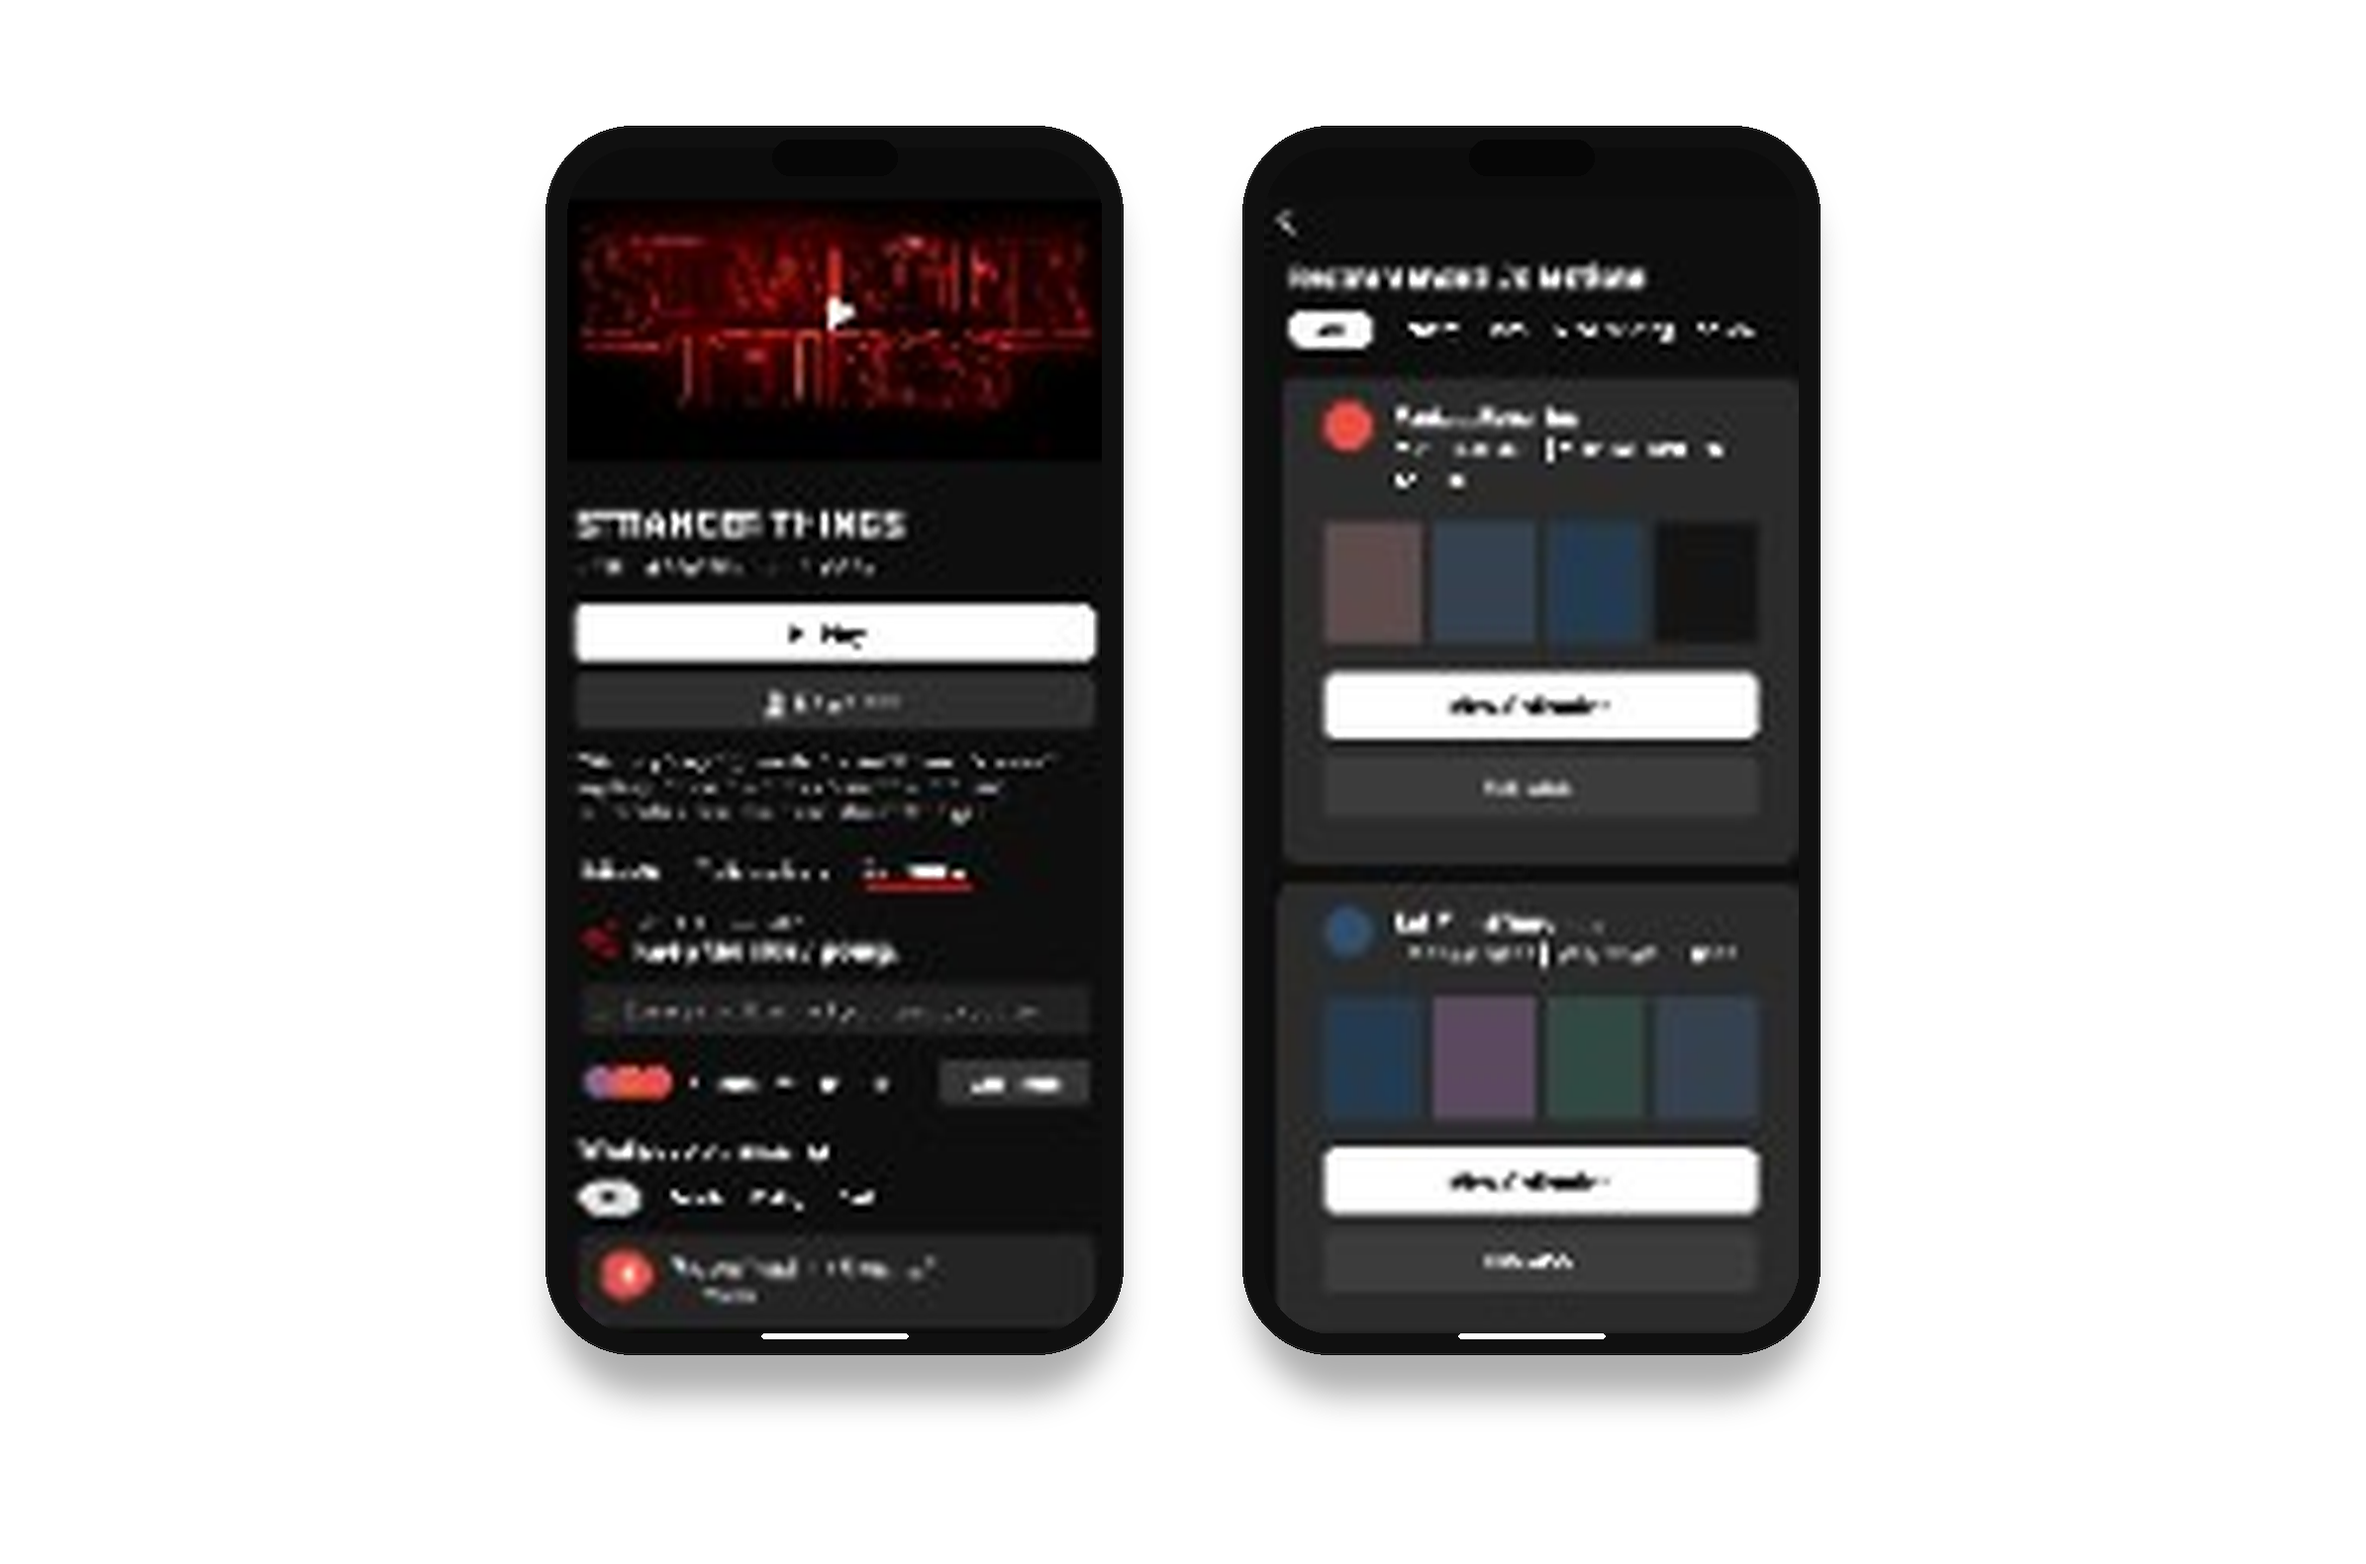
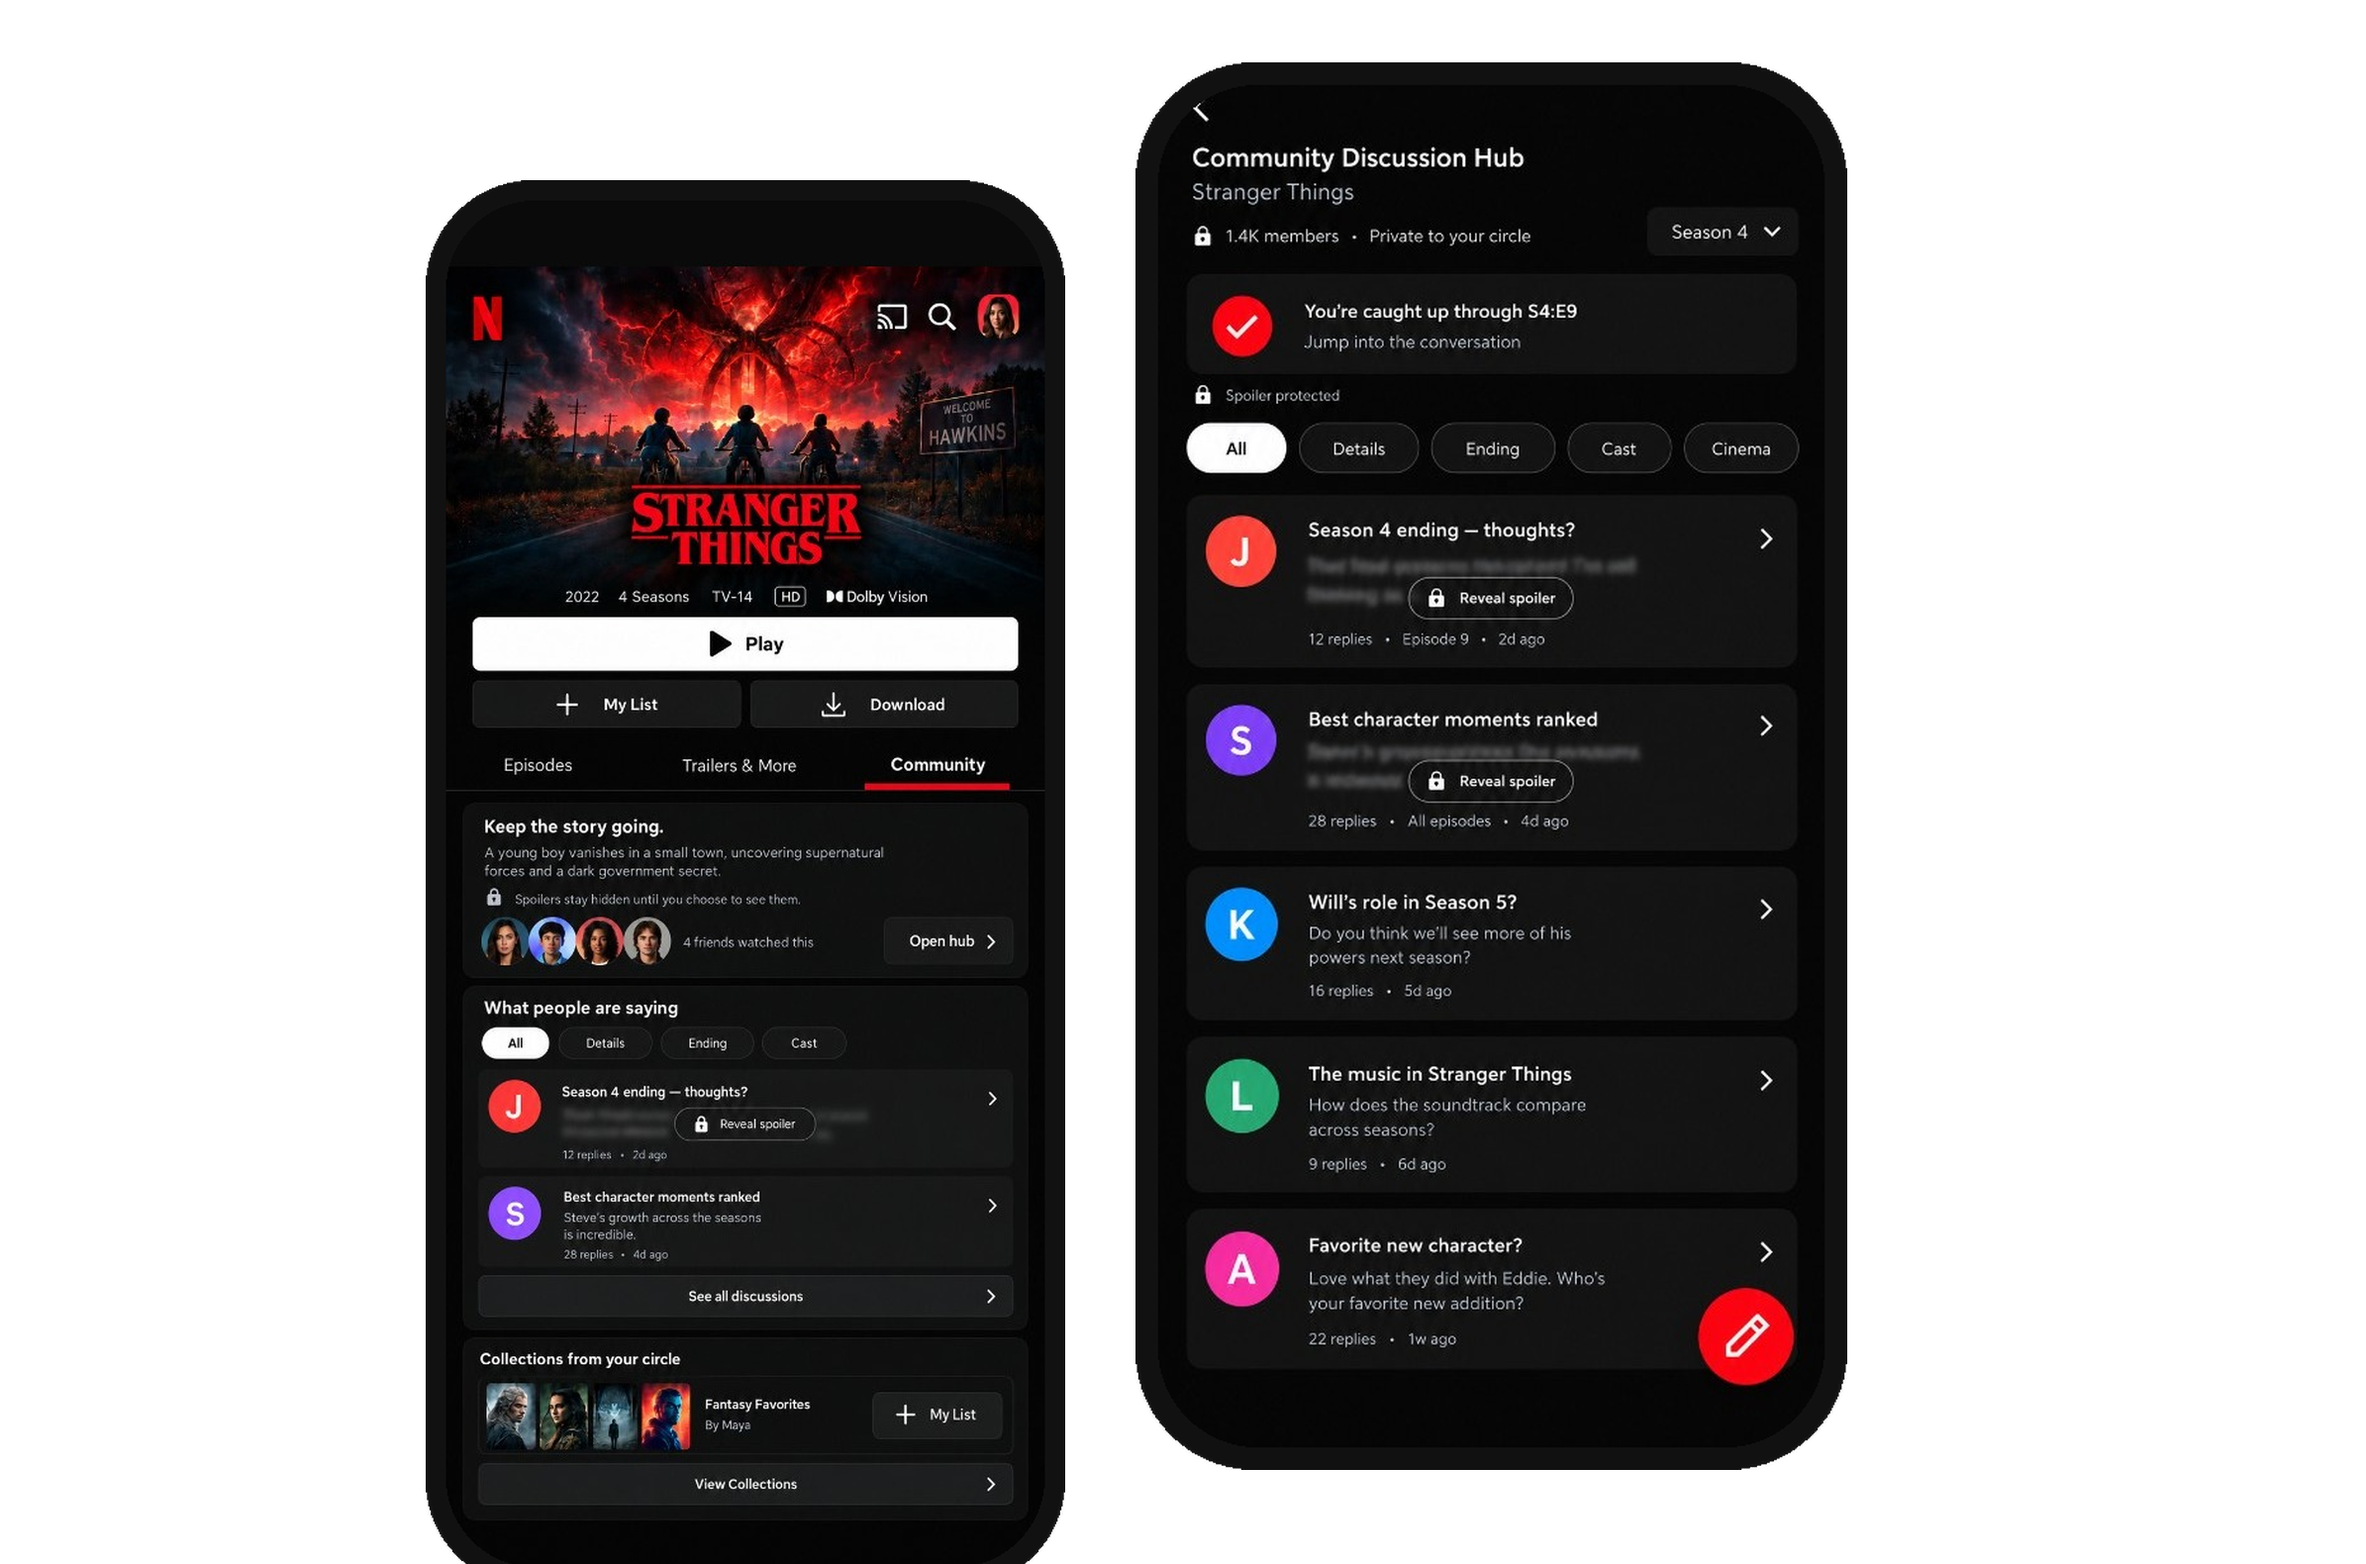
Swap Netflix Community hi-fi to sharper phone screens with more space between frames.

diff --git a/src/components/CaseGallery.tsx b/src/components/CaseGallery.tsx
@@ -29,6 +29,9 @@ function statusBarStyle(item: CaseMediaItem): {
   if (src.includes("path-learning")) {
     return { bg: "#FDFCFA", bottomBg: "#FDFCFA", theme: "light" };
   }
+  if (src.includes("netflix-community")) {
+    return { bg: "#0A0A0A", bottomBg: "#0A0A0A", theme: "dark" };
+  }
   if (src.includes("pulsefit/final/22.png")) {
     return { bg: "#1D1F1F", bottomBg: "#2B3537", theme: "dark" };
   }
@@ -108,17 +111,20 @@ function StatusBar({
 
 function PhoneFrame({
   item,
+  roomy = false,
 }: {
   item: CaseMediaItem;
+  roomy?: boolean;
 }) {
   const { bg, bottomBg, theme } = statusBarStyle(item);
   const dark = theme === "dark";
   // PulseFit exports mix 864 and 1076-tall crops; pin them to one iPhone
   // viewport so shorter screens don't sit above a black gap in the grid.
-  const fillFrame = item.src.includes("pulsefit");
+  const fillFrame =
+    item.src.includes("pulsefit") || item.src.includes("netflix-community");
 
   return (
-    <figure className="mx-auto w-full">
+    <figure className={`mx-auto w-full ${roomy ? "max-w-[220px] sm:max-w-[240px] md:max-w-[260px]" : ""}`}>
       {/* Onur-style device shell — thin dark bezel, soft lift */}
       <div className="rounded-[2.6rem] bg-[#111] p-[10px] shadow-[0_28px_56px_rgba(0,0,0,0.45)] ring-1 ring-white/[0.08] sm:rounded-[2.85rem] sm:p-[11px]">
         <div
@@ -176,10 +182,12 @@ export default function CaseGallery({
   items,
   layout = "masonry",
   tone = "muted",
+  roomy = false,
 }: {
   items: CaseMediaItem[];
   layout?: Layout;
   tone?: "muted" | "dark" | "plain";
+  roomy?: boolean;
 }) {
   if (!items.length) return null;
 
@@ -242,10 +250,22 @@ export default function CaseGallery({
 
   if (layout === "phones") {
     return (
-      <div className={`mt-12 sm:mt-16 ${surface} px-5 py-16 sm:px-8 sm:py-24 md:px-10 md:py-28 lg:px-14`}>
-        <div className="mx-auto grid grid-cols-2 items-start justify-items-stretch gap-x-6 gap-y-14 sm:gap-x-10 sm:gap-y-16 md:grid-cols-3 md:gap-x-12 md:gap-y-20 2xl:grid-cols-4 2xl:gap-x-14 2xl:gap-y-24">
+      <div
+        className={`${surface} ${
+          roomy
+            ? "mt-12 px-8 py-20 sm:mt-16 sm:px-14 sm:py-28 md:px-20 md:py-32 lg:px-28"
+            : "mt-12 px-5 py-16 sm:mt-16 sm:px-8 sm:py-24 md:px-10 md:py-28 lg:px-14"
+        }`}
+      >
+        <div
+          className={`mx-auto grid items-start ${
+            roomy
+              ? "grid-cols-1 justify-items-center gap-x-12 gap-y-16 sm:grid-cols-2 sm:gap-x-16 sm:gap-y-20 md:grid-cols-3 md:gap-x-20 md:gap-y-24"
+              : "grid-cols-2 justify-items-stretch gap-x-6 gap-y-14 sm:gap-x-10 sm:gap-y-16 md:grid-cols-3 md:gap-x-12 md:gap-y-20 2xl:grid-cols-4 2xl:gap-x-14 2xl:gap-y-24"
+          }`}
+        >
           {items.map((item) => (
-            <PhoneFrame key={item.src} item={item} />
+            <PhoneFrame key={item.src} item={item} roomy={roomy} />
           ))}
         </div>
       </div>

diff --git a/src/data/site.ts b/src/data/site.ts
@@ -85,6 +85,8 @@ export type CaseStudy = {
     images: CaseMediaItem[];
     layout?: "masonry" | "phones" | "full" | "pair" | "stack";
     tone?: "muted" | "dark" | "plain";
+    /** Smaller phones with more space between frames */
+    roomy?: boolean;
   };
   solution: {
     intro: string;
@@ -1144,15 +1146,49 @@ export const projects: Project[] = [
           "“Keep the story going.” “What stayed with you?” “Be kind. Be curious. No spoilers.” The product speaks like a living room, not a feed.",
       },
       visuals: {
-        layout: "full",
+        layout: "phones",
         tone: "dark",
+        roomy: true,
         images: [
           {
-            src: "/images/projects/netflix-community/hifi-board.jpg",
-            alt: "Netflix Community high-fidelity screens for title community, hubs, threads, collections, and posting",
-            caption: "High-fidelity system: title Community tab, hubs, threads, collections, and composer",
-            width: 1024,
-            height: 520,
+            src: "/images/projects/netflix-community/screens/01-title.jpg",
+            alt: "Netflix title page with a Community tab on Stranger Things",
+            caption: "Title · Community",
+            width: 472,
+            height: 1076,
+            statusBar: "dark",
+          },
+          {
+            src: "/images/projects/netflix-community/screens/03-hub.jpg",
+            alt: "Private circle discussion hub for Stranger Things with spoiler-gated threads",
+            caption: "Discussion hub",
+            width: 473,
+            height: 966,
+            statusBar: "dark",
+          },
+          {
+            src: "/images/projects/netflix-community/screens/02-thread.jpg",
+            alt: "Episode thread with replies and spoiler-hidden comments",
+            caption: "Thread",
+            width: 473,
+            height: 966,
+            statusBar: "dark",
+          },
+          {
+            src: "/images/projects/netflix-community/screens/04-collection.jpg",
+            alt: "Fantasy Favorites collection shared with a circle, with Play and My List actions",
+            caption: "Collection",
+            width: 472,
+            height: 966,
+            statusBar: "dark",
+          },
+          {
+            src: "/images/projects/netflix-community/screens/05-prompt.jpg",
+            alt: "Post-watch prompt asking what stayed with you after an episode",
+            caption: "Post-watch prompt",
+            width: 471,
+            height: 1076,
+            statusBar: "dark",
           },
         ],
       },

diff --git a/src/app/projects/[slug]/page.tsx b/src/app/projects/[slug]/page.tsx
@@ -394,6 +394,7 @@ export default async function ProjectDetail({
             items={cs.visuals.images}
             layout={cs.visuals.layout ?? "phones"}
             tone={cs.visuals.tone ?? "dark"}
+            roomy={cs.visuals.roomy}
           />
         ) : (
           <div className="mt-12 overflow-hidden bg-[#ececec]">
